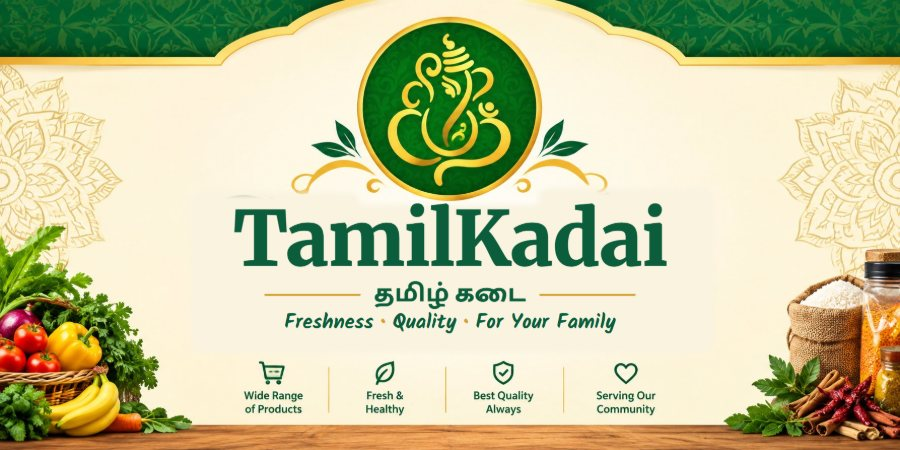
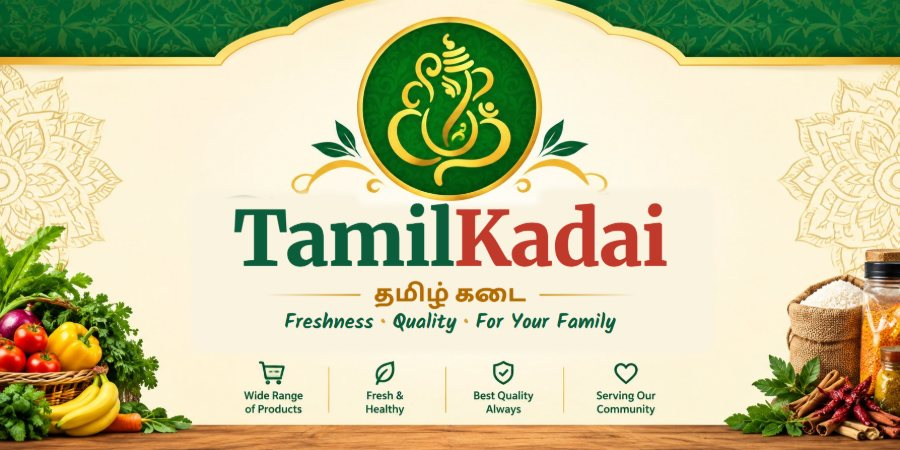
Restore red Kadai and gold Tamil text colours

diff --git a/app/globals.css b/app/globals.css
@@ -964,6 +964,7 @@ h1, h2, .sectionHead h2, .resultsHead h1, .pdpInfo h1, .checkoutHead h1, .orderP
 
 /* ---------- TamilKadai wordmark ---------- */
 .logoWord { display: block; }
-.logoWord em { font-style: normal; }
+.logoWord em { font-style: normal; color: #c0392b; }
+.logoLight .logoWord em { color: var(--gold); }
 .logoText small.logoTa { font-family: 'Catamaran', var(--font); text-transform: none; letter-spacing: 0; font-size: 15px; font-weight: 800; margin-top: 2px; }
 @media (max-width: 720px) { .logoText small.logoTa { font-size: 13px; } }
